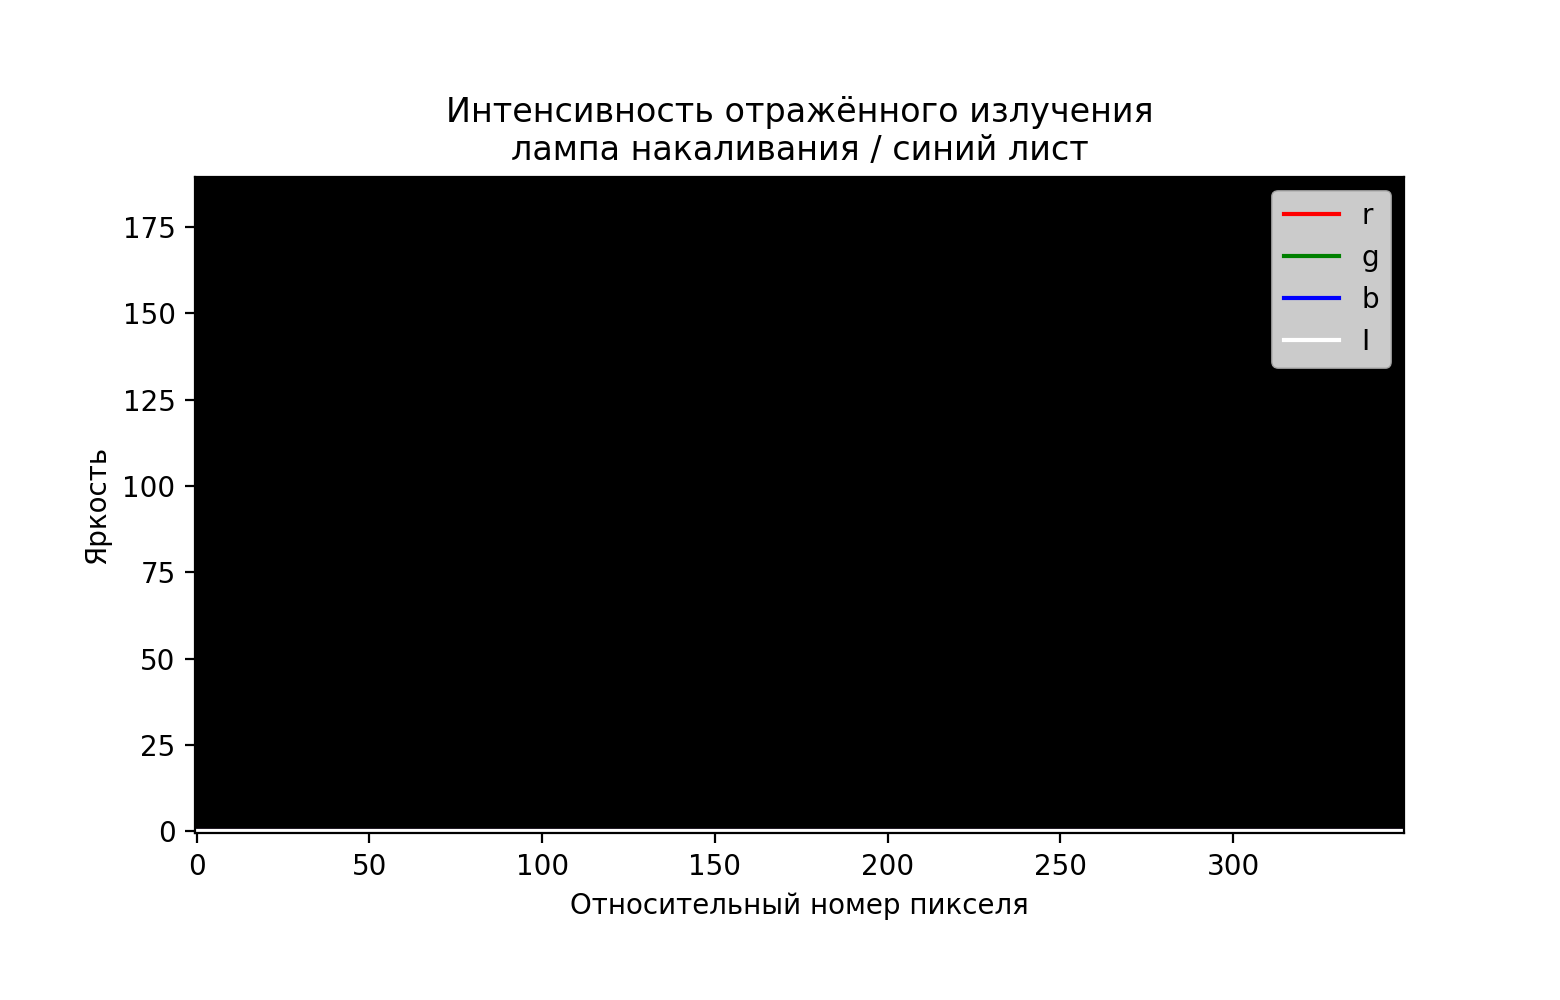
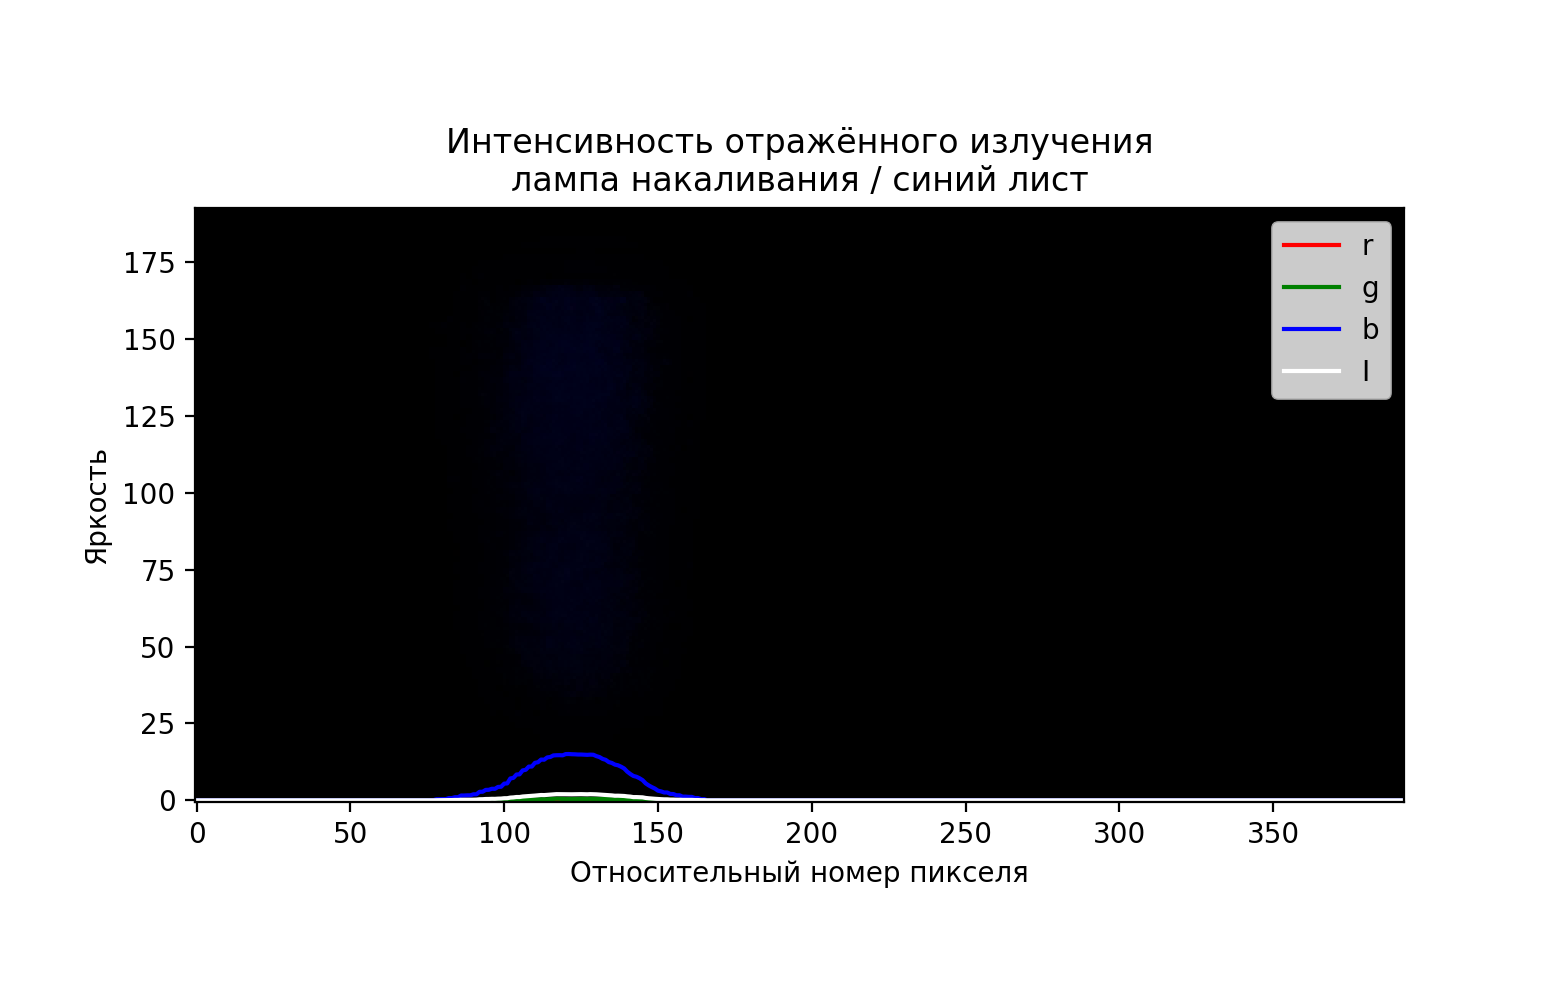
my light

diff --git a/light/37/measure.py b/light/37/measure.py
@@ -2,67 +2,117 @@ import lightFunctions as j
 import matplotlib.pyplot as plt
 import numpy as np
 
-photos = ['10-50.png', 'blue.jpg', 'green.jpg', 'red.jpg', 'white.jpg', 'yellow.jpg']
+photos = ['calibration.png', 'blue.png', 'green.png', 'red.png', 'white.png', 'yellow.png']
 
 rgb, I0 = j.read_image(photos[0], 'graph1.png', 'ртутная лампа', 'белый лист')
-# I1 = j.read_image(photos[1], 'graph2.png', 'лампа накаливания', 'синий лист')[-1]
-# I2 = j.read_image(photos[2], 'graph3.png', 'лампа накаливания', 'зеленый лист')[-1]
-# I3 = j.read_image(photos[3], 'graph4.png', 'лампа накаливания', 'красный лист')[-1]
-# I4 = j.read_image(photos[4], 'graph5.png', 'лампа накаливания', 'белый лист')[-1]
-# I5 = j.read_image(photos[5], 'graph6.png', 'лампа накаливая', 'желтый лист')[-1]
-print(rgb)
+I1 = j.read_image(photos[1], 'graph2.png', 'лампа накаливания', 'синий лист')[-1]
+I2 = j.read_image(photos[2], 'graph3.png', 'лампа накаливания', 'зеленый лист')[-1]
+I3 = j.read_image(photos[3], 'graph4.png', 'лампа накаливания', 'красный лист')[-1]
+I4 = j.read_image(photos[4], 'graph5.png', 'лампа накаливания', 'белый лист')[-1]
+I5 = j.read_image(photos[5], 'graph6.png', 'лампа накаливая', 'желтый лист')[-1]
+I1 = I1[:352]
+I2 = I2[:352]
+I3 = I3[:352]
+I4 = I4[:352]
+I5 = I5[:352]
 # r = [i[0] for i in rgb]
 # b = [i[2] for i in rgb]
 # r_max, b_max = max(r), max(b)
 # i_r, i_b = r.index(r_max), b.index(b_max)
-# k = 610 / i_r
-#
-# x = np.linspace(0, 350, 350)
-# x = [i * k for i in x]
-# plt.cla()
-# plt.clf()
-#
-# ax = plt.axes()
-# ax.set_facecolor(color='#E5E4E2')
-# ax.grid(which='major', linewidth=1)
-# ax.grid(which='minor', linewidth=0.7, linestyle='--')
-# ax.minorticks_on()
-#
-# plt.plot(x, I1, color='blue', label='blue')
-# plt.plot(x, I2, color='green', label='green')
-# plt.plot(x, I3, color='red', label='red')
-# plt.plot(x, I4, color='white', label='white')
-# plt.plot(x, I5, color='yellow', label='yellow')
-#
-# plt.legend()
-# plt.title('Отражённая интенсивность излучения лампы накаливания')
-# plt.ylabel('яркость')
-# plt.xlabel('длина волны, нм')
-# plt.savefig('I.png')
-#
-# A1 = [I1[i] / I4[i] for i in range(len(I1))]
-# A2 = [I2[i] / I4[i] for i in range(len(I1))]
-# A3 = [I3[i] / I4[i] for i in range(len(I1))]
-# A4 = [I4[i] / I4[i] for i in range(len(I1))]
-# A5 = [I5[i] / I4[i] for i in range(len(I1))]
-#
-# plt.cla()
-# plt.clf()
-#
-# ax = plt.axes()
-# ax.set_facecolor(color='#E5E4E2')
-# ax.grid(which='major', linewidth=1)
-# ax.grid(which='minor', linewidth=0.7, linestyle='--')
-# ax.minorticks_on()
-#
-# plt.plot(x, A1, color='blue', label='blue')
-# plt.plot(x, A2, color='green', label='green')
-# plt.plot(x, A3, color='red', label='red')
-# plt.plot(x, A4, color='white', label='white')
-# plt.plot(x, A5, color='yellow', label='yellow')
-#
-# plt.legend()
-# plt.title('Зависимость альбедо поверхностей от длины волны падающего света')
-# plt.ylabel('альбедо')
-# plt.xlabel('длина волны, нм')
-# plt.savefig('A.png')
+green = [i[1] for i in rgb]
+blue = [i[2] for i in rgb]
+i_green = green.index(max(green))
+i_blue = blue.index(max(blue))
+
+
+a = (546.074 - 435.83)/(i_green - i_blue)
+b = 546.074 - a*i_green
+
+a = 0.823
+b = 369.19
+
+x = np.linspace(0, len(I4), len(I4))
+x = [i * a + b for i in x]
+plt.cla()
+plt.clf()
+
+ax = plt.axes()
+ax.set_facecolor(color='#E5E4E2')
+ax.grid(which='major', linewidth=1)
+ax.grid(which='minor', linewidth=0.7, linestyle='--')
+ax.minorticks_on()
+
+plt.plot(x, I1, color='blue', label='blue')
+plt.plot(x, I2, color='green', label='green')
+plt.plot(x, I3, color='red', label='red')
+plt.plot(x, I4, color='white', label='white')
+plt.plot(x, I5, color='yellow', label='yellow')
+
+# for i in range (len(I4)):
+#     print(i, ' ', I4[i])
+
+
+
+plt.legend()
+plt.title('Отражённая интенсивность излучения лампы накаливания')
+plt.ylabel('яркость')
+plt.xlabel('длина волны, нм')
+plt.savefig('I.png')
+
+# A1=[]
+# for i in range(len(I1)):
+#     if I4[i] == 0:
+#         A1.append(0)
+#     else:
+#         A1.append(I1[i] / I4[i])
+# A2=[]
+# for i in range(len(I1)):
+#     if I4[i] == 0:
+#         A2.append(0)
+#     else:
+#         A2.append(I2[i] / I4[i])
+# A3=[]
+# for i in range(len(I3)):
+#     if I4[i] == 0:
+#         A3.append(0)
+#     else:
+#         A3.append(I3[i] / I4[i])
+# A4=[]
+# for i in range(len(I4)):
+#     if I4[i] == 0:
+#         A4.append(1)
+#     else:
+#         A4.append(I4[i] / I4[i])
+# A5=[]
+# for i in range(len(I5)):
+#     if I4[i] == 0:
+#         A5.append(0)
+#     else:
+#         A5.append(I5[i] / I4[i])
+A1 = [I1[i] / I4[i] for i in range(len(I1))]
+A2 = [I2[i] / I4[i] for i in range(len(I1))]
+A3 = [I3[i] / I4[i] for i in range(len(I1))]
+A4 = [I4[i] / I4[i] for i in range(len(I1))]
+A5 = [I5[i] / I4[i] for i in range(len(I1))]
+# for i in range (len(A5)):
+#     print(i, ' ', A5[i])
+plt.cla()
+plt.clf()
+ax = plt.axes()
+ax.set_facecolor(color='#E5E4E2')
+ax.grid(which='major', linewidth=1)
+ax.grid(which='minor', linewidth=0.7, linestyle='--')
+ax.minorticks_on()
+
+plt.plot(x, A1, color='blue', label='blue')
+plt.plot(x, A2, color='green', label='green')
+plt.plot(x, A3, color='red', label='red')
+plt.plot(x, A4, color='white', label='white')
+plt.plot(x, A5, color='yellow', label='yellow')
+
+
+plt.legend()
+plt.title('Зависимость альбедо поверхностей от длины волны падающего света')
+plt.ylabel('альбедо')
+plt.xlabel('длина волны, нм')
+plt.savefig('A.png')

diff --git a/light/37/1.py b/light/37/1.py
@@ -1,0 +1,20 @@
+import matplotlib.pyplot as plt
+import numpy as np
+
+x = [81, 215]
+y = [435.83, 546.074]
+coefs = np.polyfit(x,y,1)
+p = np.poly1d(coefs)
+print(coefs)
+fig, ax = plt.subplots()
+ax.scatter(x,y, label = '$\lambda$ = ' + str(round(coefs[0],3)) + '$\cdot$ n' + ' + ' + str(round(coefs[1],3)) + ' нм')
+ax.plot(x,p(x), c='red')
+ax.legend()
+ax.set_xlabel('Относительный номер пикселя')
+ax.set_ylabel('Длина волны, нм')
+ax.set_facecolor(color='#E5E4E2')
+ax.grid(which='major', linewidth=1)
+ax.grid(which='minor', linewidth=0.7, linestyle='--')
+ax.minorticks_on()
+plt.savefig('калибровка.png')
+plt.show()

diff --git a/light/37/lightFunctions.py b/light/37/lightFunctions.py
@@ -6,9 +6,9 @@ from cycler import cycler
 
 def read_image(photoName, graph_name, lamp, surface):
     photo = imageio.imread(photoName)
-    background = photo[500:693, 650:1113, 0:3]
+    background = photo[500:693, 670:1063, 0:3]
 
-    cut = photo[500:693, 650:1113, 0:3]
+    cut = photo[500:693, 670:1063, 0:3]
     rgb = np.mean(cut, axis=(0))
     luma = 0.2989 * rgb[:, 0] + 0.5866 * rgb[:, 1] + 0.1144 * rgb[:, 2]
 
